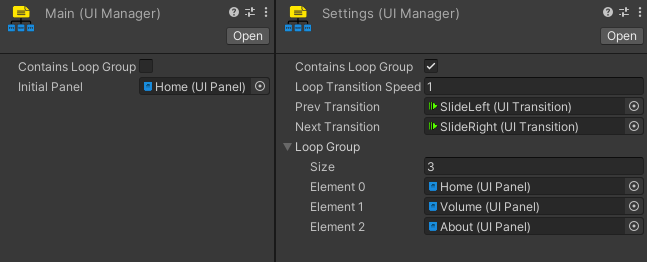
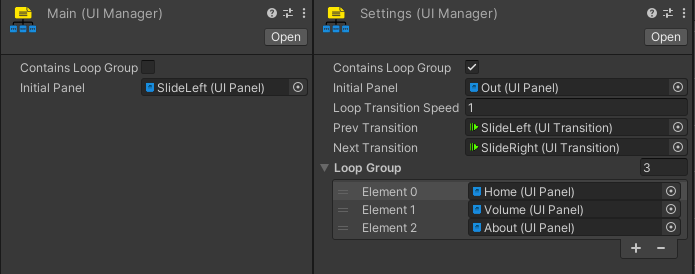
loop groups have a specified initial panel

diff --git a/Assets/UIManager/Scripts/Editor/UIManagerEditor.cs b/Assets/UIManager/Scripts/Editor/UIManagerEditor.cs
@@ -1,6 +1,3 @@
-using System.Collections;
-using System.Collections.Generic;
-using UnityEngine;
 using UnityEditor;
 namespace Rellac.UI.Editor
 {
@@ -29,15 +26,13 @@ namespace Rellac.UI.Editor
 		{
 			serializedObject.Update();
 			EditorGUILayout.PropertyField(containsLoopGroup);
+			EditorGUILayout.PropertyField(initialPanel);
 			if (containsLoopGroup.boolValue)
 			{
 				EditorGUILayout.PropertyField(loopTransitionSpeed);
 				EditorGUILayout.PropertyField(prevTransition);
 				EditorGUILayout.PropertyField(nextTransition);
 				EditorGUILayout.PropertyField(loopGroup);
-			} else
-			{
-				EditorGUILayout.PropertyField(initialPanel);
 			}
 			serializedObject.ApplyModifiedProperties();
 		}

diff --git a/Assets/UIManager/Scripts/UIManager.cs b/Assets/UIManager/Scripts/UIManager.cs
@@ -70,7 +70,7 @@ namespace Rellac.UI
 		private bool transitioning = false;
 		private UIPanel currentPanel;
 
-		private int loopIdx_;
+		private int loopIdx_ = 0;
 		private int loopIdx
 		{
 			get
@@ -106,12 +106,6 @@ namespace Rellac.UI
 			root.GetComponent<UIFitter>().Fit();
 
 			UIPanel panel = initialPanel;
-			if (containsLoopGroup)
-			{
-				panel = loopGroup[0];
-				loopIdx = 0;
-			}
-
 			RectTransform panelRoot = (RectTransform)Instantiate(panel.panelPrefab, inParent).transform;
 			animator.Play("Instant");
 			panel.Initialise(this, panelRoot);
